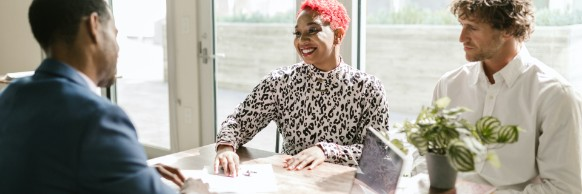
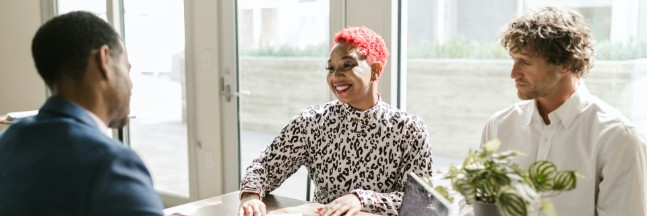
.

diff --git a/chamber/index.html b/chamber/index.html
@@ -52,12 +52,14 @@
         <main>
            <div id="placeholder">
             <section class="placeholderhero">
-                <figure>    
-            <img  src="images/large.jpg" alt="Cortes"
-                srcset="images/small1.jpg 650w , images/medium1.jpg 850w ,images/large 1000px">
+               <picture>  
+                   <source srcset="images/large1.jpg" media="(min-width: 1000px)">
+                   <source srcset="images/medium1.jpg" media="(min-width: 650px)">
+                   <source srcset="images/small1.jpg" media="(min-width:100px)">
+                
+                   <img src="images/wdd230-org.jpg" alt="picture original">   
+          </picture>
 
-               
-            </figure>
                 <p>Welcome To Cortes Area</p>
             </section>
             <section class="placeholderevent">
